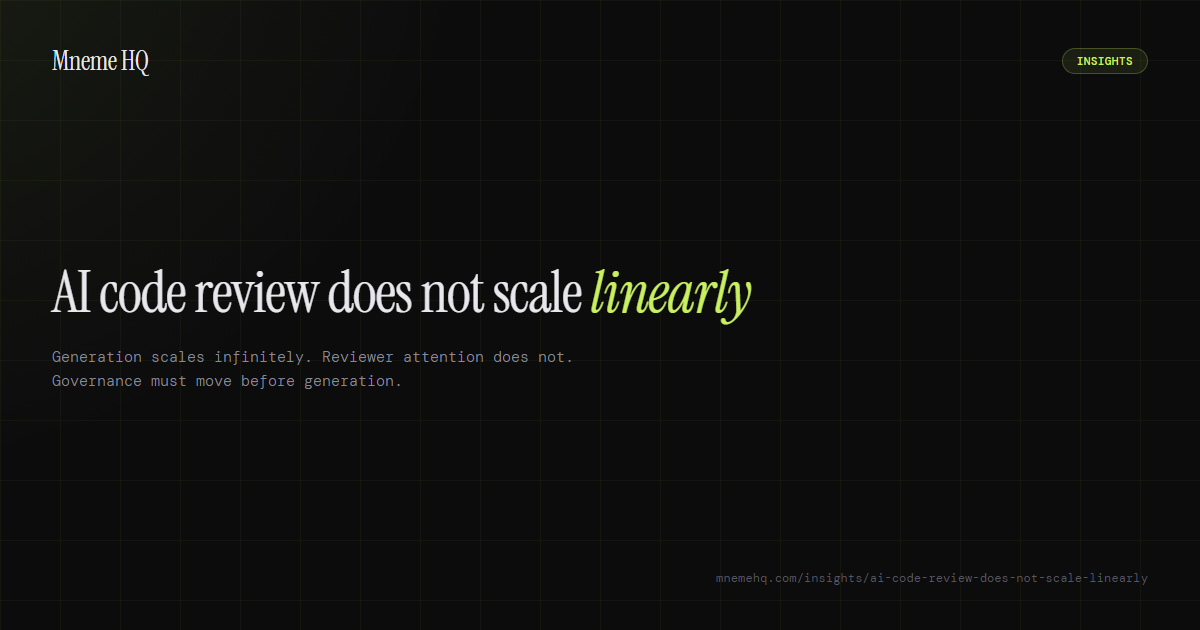
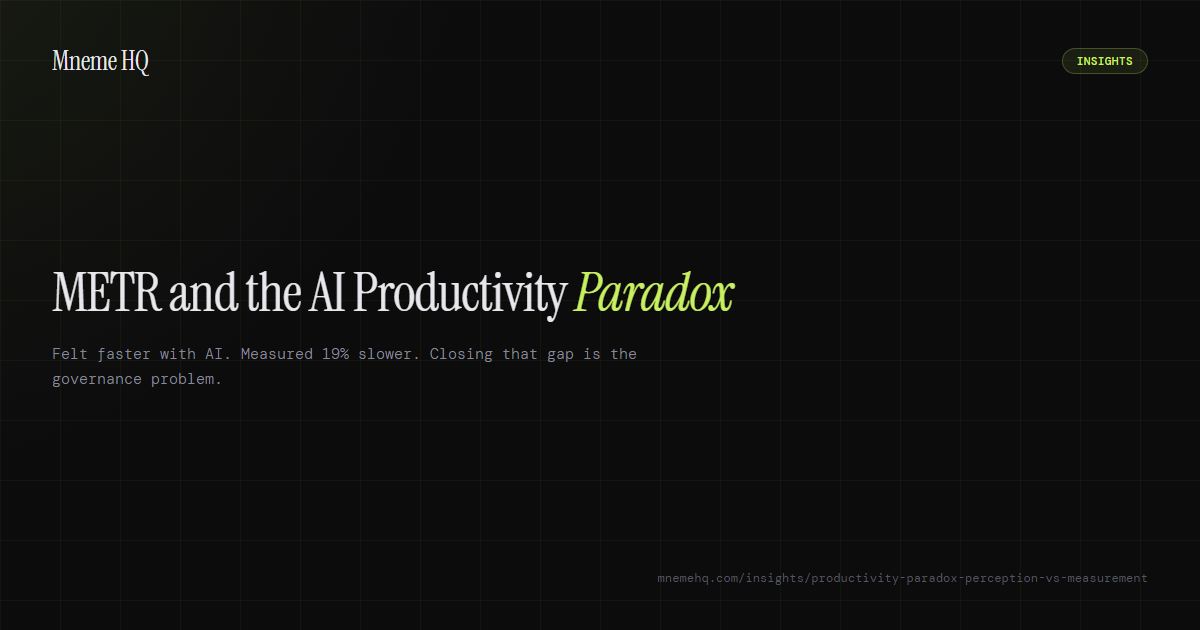
site: front-load report/framework entities in 2 insights + OG images
## What

Applies the proven Datadog-page SEO pattern — front-load the searchable
named entity in `title` = `h1` = og/twitter = JSON-LD headline =
breadcrumb = inbound anchor text — to the two report-anchored insight
pages that still buried the entity, plus regenerates their OG images.

### Title/meta changes
- **productivity-paradox** → leads with **METR** (study author); meta
leads with the verified **19%** measured-slowdown figure.
- **github-copilot-space-framework** → leads with **The SPACE
Framework**; unifies the previously divergent meta vs og/twitter
descriptions.
- Inbound anchors updated: insights index cards + JSON-LD ItemList, the
related rel-card on `ai-roi-problem`, and the cross-link on the
productivity page.
- `VideoObject` schema name on the copilot page left intact (it's the
real YouTube video title, not the article title).

### OG images
- **productivity-paradox** `og.png` was a pre-existing bug — it showed a
*different* article ("AI code review does not scale linearly", wrong
URL). Added a correct template (`og-insights-productivity-paradox.html`
→ "METR and the AI Productivity Paradox") + its missing `TEMPLATE_MAP`
entry.
- **copilot** OG headline updated to lead with the entity ("The SPACE
Framework & GitHub Copilot").
- Rendered only these two via Playwright; no other OG images touched.

## Not included
`ai-native-engineering-intent-debt` is intentionally excluded — a prior
content batch already retitled it to front-load "State of AI-Native
[…]

Changed region(s): [[0.0308, 0.4222, 0.6475, 0.5127], [0.0308, 0.5429, 0.5242, 0.6333], [0.555, 0.9048, 0.9558, 0.9349]]

diff --git a/site/insights/productivity-paradox-perception-vs-measurement/index.html b/site/insights/productivity-paradox-perception-vs-measurement/index.html
@@ -3,24 +3,24 @@
 <head>
   <meta charset="UTF-8" />
   <meta name="viewport" content="width=device-width, initial-scale=1.0" />
-  <title>The Productivity Paradox: Why AI Coding Tools Feel Fast and Measure Slow — Mneme HQ</title>
+  <title>METR's AI Productivity Studies: Why AI Coding Feels Fast but Measures Slow — Mneme HQ</title>
   <link rel="preload" href="/assets/fonts/InstrumentSerif-400.woff2" as="font" type="font/woff2" crossorigin>
   <link rel="preload" href="/assets/fonts/Inter-400.woff2" as="font" type="font/woff2" crossorigin>
   <link rel="stylesheet" href="/assets/css/fonts.css">
-  <meta name="description" content="Two METR studies say almost the opposite thing about AI's impact on developer productivity. The gap between perception and measurement is what governance has to close." />
+  <meta name="description" content="METR's developer-productivity studies found experienced engineers felt faster with AI yet measured 19% slower. Closing that perception–measurement gap is the governance problem." />
   <meta name="robots" content="index, follow" />
   <meta name="theme-color" content="#0c0c0d" />
   <link rel="canonical" href="https://mnemehq.com/insights/productivity-paradox-perception-vs-measurement/" />
   <link rel="dns-prefetch" href="https://www.googletagmanager.com" />
   <meta property="og:type" content="article" />
   <meta property="og:site_name" content="Mneme HQ" />
-  <meta property="og:title" content="The Productivity Paradox: Why AI Coding Tools Feel Fast and Measure Slow" />
-  <meta property="og:description" content="Two METR studies say almost the opposite thing about AI's impact on developer productivity. The gap between perception and measurement is what governance has to close." />
+  <meta property="og:title" content="METR's AI Productivity Studies: Why AI Coding Feels Fast but Measures Slow" />
+  <meta property="og:description" content="METR's developer-productivity studies found experienced engineers felt faster with AI yet measured 19% slower. Closing that perception–measurement gap is the governance problem." />
   <meta property="og:url" content="https://mnemehq.com/insights/productivity-paradox-perception-vs-measurement/" />
   <meta property="og:image" content="https://mnemehq.com/insights/productivity-paradox-perception-vs-measurement/og.png" />
   <meta name="twitter:card" content="summary_large_image" />
-  <meta name="twitter:title" content="The Productivity Paradox: Why AI Coding Tools Feel Fast and Measure Slow" />
-  <meta name="twitter:description" content="Two METR studies say almost the opposite thing about AI's impact on developer productivity. The gap between perception and measurement is what governance has to close." />
+  <meta name="twitter:title" content="METR's AI Productivity Studies: Why AI Coding Feels Fast but Measures Slow" />
+  <meta name="twitter:description" content="METR's developer-productivity studies found experienced engineers felt faster with AI yet measured 19% slower. Closing that perception–measurement gap is the governance problem." />
   <meta name="twitter:image" content="https://mnemehq.com/insights/productivity-paradox-perception-vs-measurement/og.png" />
   <meta name="author" content="Theo Valmis" />
   <meta property="article:published_time" content="2026-05-20T00:00:00Z" />
@@ -226,13 +226,13 @@
         "itemListElement": [
           {"@type": "ListItem", "position": 1, "name": "Home", "item": "https://mnemehq.com/"},
           {"@type": "ListItem", "position": 2, "name": "Insights", "item": "https://mnemehq.com/insights/"},
-          {"@type": "ListItem", "position": 3, "name": "The Productivity Paradox: Why AI Coding Tools Feel Fast and Measure Slow", "item": "https://mnemehq.com/insights/productivity-paradox-perception-vs-measurement/"}
+          {"@type": "ListItem", "position": 3, "name": "METR's AI Productivity Studies: Why AI Coding Feels Fast but Measures Slow", "item": "https://mnemehq.com/insights/productivity-paradox-perception-vs-measurement/"}
         ]
       },
       {
         "@type": "Article",
-        "headline": "The Productivity Paradox: Why AI Coding Tools Feel Fast and Measure Slow",
-        "description": "Two METR studies say almost the opposite thing about AI's impact on developer productivity. The gap between perception and measurement is what governance has to close.",
+        "headline": "METR's AI Productivity Studies: Why AI Coding Feels Fast but Measures Slow",
+        "description": "METR's developer-productivity studies found experienced engineers felt faster with AI yet measured 19% slower. Closing that perception–measurement gap is the governance problem.",
         "url": "https://mnemehq.com/insights/productivity-paradox-perception-vs-measurement/",
         "datePublished": "2026-05-20",
         "dateModified": "2026-05-20",
@@ -272,7 +272,7 @@
   <ol class="breadcrumb">
     <li><a href="/">Home</a></li>
     <li><a href="/insights/">Insights</a></li>
-    <li aria-current="page">The Productivity Paradox: Why AI Coding Tools Feel Fast and Measure Slow</li>
+    <li aria-current="page">METR's AI Productivity Studies: Why AI Coding Feels Fast but Measures Slow</li>
   </ol>
 </nav>
 <article class="article-wrap">
@@ -282,7 +282,7 @@
       <span class="eyebrow-dot"></span>
       <span class="eyebrow-meta">7 min read &nbsp;&middot;&nbsp; May 2026</span>
     </div>
-    <h1>The Productivity Paradox: Why AI Coding Tools Feel Fast and Measure Slow</h1>
+    <h1>METR's AI Productivity Studies: Why AI Coding Feels Fast but Measures Slow</h1>
     <p class="article-lede">Two METR studies say almost the opposite thing about AI's impact on developer productivity. Reconciling them changes what data teams should actually measure — and shows where governance infrastructure pays back.</p>
     <p class="byline">
       By <a href="/founder/">Theo Valmis</a>
@@ -424,7 +424,7 @@
     <h2 id="related-reading">Related reading</h2>
     <ul>
         <li><a href="/insights/ai-code-review-does-not-scale-linearly/">AI Code Review Does Not Scale Linearly</a></li>
-        <li><a href="/insights/github-copilot-space-framework/">Quantifying GitHub Copilot's Impact: What the SPACE Framework Actually Reveals</a></li>
+        <li><a href="/insights/github-copilot-space-framework/">The SPACE Framework: Measuring GitHub Copilot's Real Productivity Impact</a></li>
         <li><a href="/insights/why-code-review-cannot-scale-with-ai-output/">Why Code Review Cannot Scale With AI Output</a></li>
     </ul>
 

diff --git a/site/insights/github-copilot-space-framework/index.html b/site/insights/github-copilot-space-framework/index.html
@@ -3,24 +3,24 @@
 <head>
   <meta charset="UTF-8" />
   <meta name="viewport" content="width=device-width, initial-scale=1.0" />
-  <title>Quantifying GitHub Copilot's Impact: What the SPACE Framework Actually Reveals — Mneme HQ</title>
+  <title>The SPACE Framework: Measuring GitHub Copilot's Real Productivity Impact — Mneme HQ</title>
   <link rel="preload" href="/assets/fonts/InstrumentSerif-400.woff2" as="font" type="font/woff2" crossorigin>
   <link rel="preload" href="/assets/fonts/Inter-400.woff2" as="font" type="font/woff2" crossorigin>
   <link rel="stylesheet" href="/assets/css/fonts.css">
-  <meta name="description" content="Most teams measure GitHub Copilot the wrong way. The SPACE Framework — developed by GitHub, Microsoft Research, and University of Victoria — forces a better question." />
+  <meta name="description" content="The SPACE Framework — from GitHub, Microsoft Research, and the University of Victoria — scores developer productivity across five dimensions, not just accepted suggestions. It's why Copilot's gains are real but invisible without governance." />
   <meta name="robots" content="index, follow" />
   <meta name="theme-color" content="#0c0c0d" />
   <link rel="canonical" href="https://mnemehq.com/insights/github-copilot-space-framework/" />
   <link rel="dns-prefetch" href="https://www.googletagmanager.com" />
   <meta property="og:type" content="article" />
   <meta property="og:site_name" content="Mneme HQ" />
-  <meta property="og:title" content="Quantifying GitHub Copilot's Impact: What the SPACE Framework Actually Reveals" />
-  <meta property="og:description" content="Most teams measure GitHub Copilot the wrong way. The SPACE Framework forces a better question — and the answer is not just about accepted suggestions." />
+  <meta property="og:title" content="The SPACE Framework: Measuring GitHub Copilot's Real Productivity Impact" />
+  <meta property="og:description" content="The SPACE Framework — from GitHub, Microsoft Research, and the University of Victoria — scores developer productivity across five dimensions, not just accepted suggestions. It's why Copilot's gains are real but invisible without governance." />
   <meta property="og:url" content="https://mnemehq.com/insights/github-copilot-space-framework/" />
   <meta property="og:image" content="https://mnemehq.com/insights/github-copilot-space-framework/og.png" />
   <meta name="twitter:card" content="summary_large_image" />
-  <meta name="twitter:title" content="Quantifying GitHub Copilot's Impact: What the SPACE Framework Actually Reveals" />
-  <meta name="twitter:description" content="Most teams measure GitHub Copilot the wrong way. The SPACE Framework forces a better question — and the answer is not just about accepted suggestions." />
+  <meta name="twitter:title" content="The SPACE Framework: Measuring GitHub Copilot's Real Productivity Impact" />
+  <meta name="twitter:description" content="The SPACE Framework — from GitHub, Microsoft Research, and the University of Victoria — scores developer productivity across five dimensions, not just accepted suggestions. It's why Copilot's gains are real but invisible without governance." />
   <meta name="twitter:image" content="https://mnemehq.com/insights/github-copilot-space-framework/og.png" />
   <meta name="author" content="Theo Valmis" />
   <meta property="article:published_time" content="2026-05-12T00:00:00Z" />
@@ -162,12 +162,12 @@
         "itemListElement": [
           {"@type": "ListItem", "position": 1, "name": "Home", "item": "https://mnemehq.com/"},
           {"@type": "ListItem", "position": 2, "name": "Insights", "item": "https://mnemehq.com/insights/"},
-          {"@type": "ListItem", "position": 3, "name": "Quantifying GitHub Copilot's Impact: What the SPACE Framework Actually Reveals", "item": "https://mnemehq.com/insights/github-copilot-space-framework/"}
+          {"@type": "ListItem", "position": 3, "name": "The SPACE Framework: Measuring GitHub Copilot's Real Productivity Impact", "item": "https://mnemehq.com/insights/github-copilot-space-framework/"}
         ]
       },
       {
         "@type": "Article",
-        "headline": "Quantifying GitHub Copilot's Impact: What the SPACE Framework Actually Reveals",
+        "headline": "The SPACE Framework: Measuring GitHub Copilot's Real Productivity Impact",
         "description": "Most teams measure GitHub Copilot the wrong way. The SPACE Framework — developed by GitHub, Microsoft Research, and University of Victoria — forces a better question.",
         "url": "https://mnemehq.com/insights/github-copilot-space-framework/",
         "datePublished": "2026-05-12",
@@ -180,7 +180,7 @@
       },
       {
         "@type": "VideoObject",
-        "name": "Quantifying GitHub Copilot's Impact: What the SPACE Framework Actually Reveals",
+        "name": "The SPACE Framework: Measuring GitHub Copilot's Real Productivity Impact",
         "description": "Companion video walking through what the SPACE framework reveals when applied to GitHub Copilot adoption data. Accepted suggestions measure activity, not outcomes, and the dimensions that improve fastest with AI coding tools are the ones traditional governance handles least well.",
         "thumbnailUrl": "https://i.ytimg.com/vi/Rjlzm0psfB4/hqdefault.jpg",
         "uploadDate": "2026-05-12",
@@ -275,7 +275,7 @@
       <span class="eyebrow-dot"></span>
       <span class="eyebrow-meta">7 min read &nbsp;·&nbsp; May 2026</span>
     </div>
-    <h1>Quantifying GitHub Copilot's Impact: What the SPACE Framework Actually Reveals</h1>
+    <h1>The SPACE Framework: Measuring GitHub Copilot's Real Productivity Impact</h1>
     <p class="article-lede">Most teams measure GitHub Copilot's value the wrong way. They count accepted suggestions, track lines generated, and call it a productivity win. The SPACE Framework forces a better question.</p>
     <p class="byline">
       By <a href="/founder/">Theo Valmis</a>
@@ -293,7 +293,7 @@
     <div class="video-wrap">
       <iframe
         src="https://www.youtube-nocookie.com/embed/Rjlzm0psfB4"
-        title="Quantifying GitHub Copilot's Impact: What the SPACE Framework Actually Reveals"
+        title="The SPACE Framework: Measuring GitHub Copilot's Real Productivity Impact"
         allow="accelerometer; autoplay; clipboard-write; encrypted-media; gyroscope; picture-in-picture"
         allowfullscreen
         loading="lazy">

diff --git a/site/insights/index.html b/site/insights/index.html
@@ -54,13 +54,13 @@
           {"@type": "Article", "name": "Datadog's State of AI Engineering Report Quietly Confirms the Governance Crisis", "url": "https://mnemehq.com/insights/datadog-state-of-ai-engineering-governance-crisis/"},
           {"@type": "Article", "name": "Why CLAUDE.md Stops Scaling", "url": "https://mnemehq.com/insights/why-claude-md-stops-scaling/"},
           {"@type": "Article", "name": "What Is the AI SDLC?", "url": "https://mnemehq.com/insights/what-is-the-ai-sdlc/"},
-          {"@type": "Article", "name": "Quantifying GitHub Copilot's Impact: What the SPACE Framework Actually Reveals", "url": "https://mnemehq.com/insights/github-copilot-space-framework/"},
+          {"@type": "Article", "name": "The SPACE Framework: Measuring GitHub Copilot's Real Productivity Impact", "url": "https://mnemehq.com/insights/github-copilot-space-framework/"},
           {"@type": "Article", "name": "AI Coding Governance Should Be Reviewable", "url": "https://mnemehq.com/insights/ai-coding-governance-should-be-reviewable/"},
           {"@type": "Article", "name": "Why RAG Fails for Architectural Governance", "url": "https://mnemehq.com/insights/why-rag-fails-for-architectural-governance/"},
           {"@type": "Article", "name": "Why Code Review Cannot Scale With AI Output", "url": "https://mnemehq.com/insights/why-code-review-cannot-scale-with-ai-output/"},
           {"@type": "Article", "name": "Prompt Engineering Is Not Governance", "url": "https://mnemehq.com/insights/prompt-engineering-is-not-governance/"},
           {"@type": "Article", "name": "Mneme vs Cursor Rules", "url": "https://mnemehq.com/insights/mneme-vs-cursor-rules/"},
-          {"@type": "Article", "name": "The Productivity Paradox: Why AI Coding Tools Feel Fast and Measure Slow", "url": "https://mnemehq.com/insights/productivity-paradox-perception-vs-measurement/"},
+          {"@type": "Article", "name": "METR's AI Productivity Studies: Why AI Coding Feels Fast but Measures Slow", "url": "https://mnemehq.com/insights/productivity-paradox-perception-vs-measurement/"},
           {"@type": "Article", "name": "AI Code Review Does Not Scale Linearly", "url": "https://mnemehq.com/insights/ai-code-review-does-not-scale-linearly/"},
           {"@type": "Article", "name": "Deployment Quality Will Define the AI Era", "url": "https://mnemehq.com/insights/deployment-quality-will-define-the-ai-era/"},
           {"@type": "Article", "name": "Review Is Not Governance", "url": "https://mnemehq.com/insights/review-is-not-governance/"},
@@ -1004,7 +1004,7 @@
             <span class="card-dot"></span>
             <span class="card-read-time">7 min read</span>
           </div>
-          <h3>The Productivity Paradox: Why AI Coding Tools Feel Fast and Measure Slow</h3>
+          <h3>METR's AI Productivity Studies: Why AI Coding Feels Fast but Measures Slow</h3>
           <p>Two METR studies say almost the opposite thing about AI's impact on developer productivity. Reconciling them shows what data teams should actually measure &mdash; and where governance pays back.</p>
           <div class="card-footer">
             <span class="read-pill">Read insight</span>
@@ -1034,7 +1034,7 @@
             <span class="card-dot"></span>
             <span class="card-read-time">7 min read</span>
           </div>
-          <h3>Quantifying GitHub Copilot&rsquo;s Impact: What the SPACE Framework Actually Reveals</h3>
+          <h3>The SPACE Framework: Measuring GitHub Copilot&rsquo;s Real Productivity Impact</h3>
           <p>Most Copilot ROI reports stop at accepted suggestions. The SPACE Framework &mdash; from GitHub, Microsoft Research, and University of Victoria &mdash; reveals the governance gap hiding beneath the activity gains.</p>
           <div class="card-footer">
             <span class="read-pill">Read insight</span>

diff --git a/site/insights/ai-roi-problem-is-about-systems-not-models/index.html b/site/insights/ai-roi-problem-is-about-systems-not-models/index.html
@@ -396,7 +396,7 @@
   <aside class="related-panel" aria-labelledby="related-essays-label" style="margin-top:1.5rem;padding-top:0;border-top:none;">
     <div class="related-panel-label" id="related-essays-label">Related operational essays</div>
     <ul class="related-list">
-      <li><a href="/insights/productivity-paradox-perception-vs-measurement/"><div class="rel-title">The Productivity Paradox: Perception vs Measurement</div><p class="rel-desc">Why teams feel faster while metrics stay flat, and what that gap is actually measuring.</p></a></li>
+      <li><a href="/insights/productivity-paradox-perception-vs-measurement/"><div class="rel-title">METR's AI Productivity Studies: Perception vs Measurement</div><p class="rel-desc">Why teams feel faster while metrics stay flat, and what that gap is actually measuring.</p></a></li>
       <li><a href="/insights/ai-native-engineering-intent-debt/"><div class="rel-title">AI-Native Engineering and Intent Debt</div><p class="rel-desc">The new debt category accumulating in AI-assisted development organizations.</p></a></li>
       <li><a href="/insights/datadog-state-of-ai-engineering-governance-crisis/"><div class="rel-title">State of AI Engineering: A Governance Crisis</div><p class="rel-desc">What the latest enterprise-scale telemetry says about coordination cost.</p></a></li>
       <li><a href="/insights/deployment-quality-will-define-the-ai-era/"><div class="rel-title">Deployment Quality Will Define the AI Era</div><p class="rel-desc">The bottleneck is not generation speed; it is what survives integration.</p></a></li>

diff --git a/scripts/generate_og_images.py b/scripts/generate_og_images.py
@@ -86,6 +86,7 @@ TEMPLATE_MAP = {
     "og-insights-claude-md-scaling.html": "insights/why-claude-md-stops-scaling/og.png",
     "og-insights-reviewable-governance.html": "insights/ai-coding-governance-should-be-reviewable/og.png",
     "og-insights-copilot-space.html": "insights/github-copilot-space-framework/og.png",
+    "og-insights-productivity-paradox.html": "insights/productivity-paradox-perception-vs-measurement/og.png",
     "og-insights-harness-governance.html": "insights/harness-engineering-still-needs-governance/og.png",
     "og-insights-observability-governance.html": "insights/why-observability-is-not-governance/og.png",
     "og-insights-agent-infrastructure-stack.html": "insights/emerging-ai-agent-infrastructure-stack/og.png",